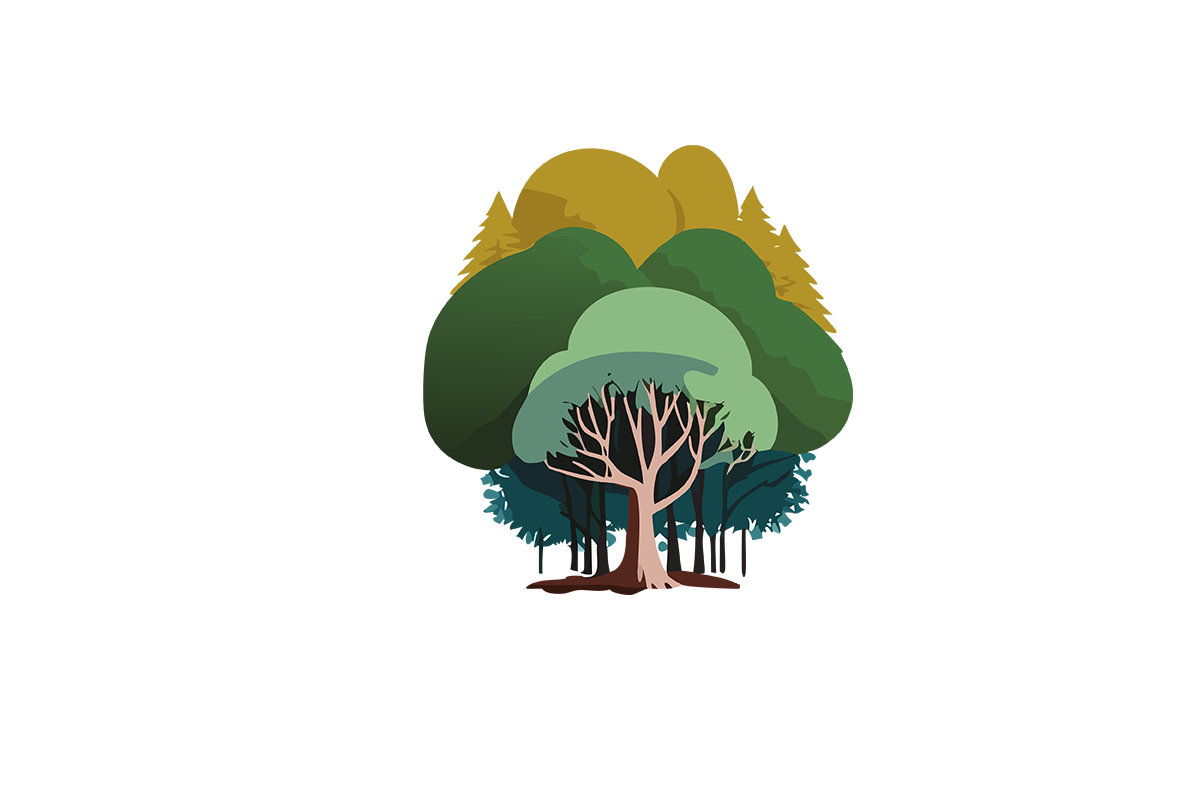
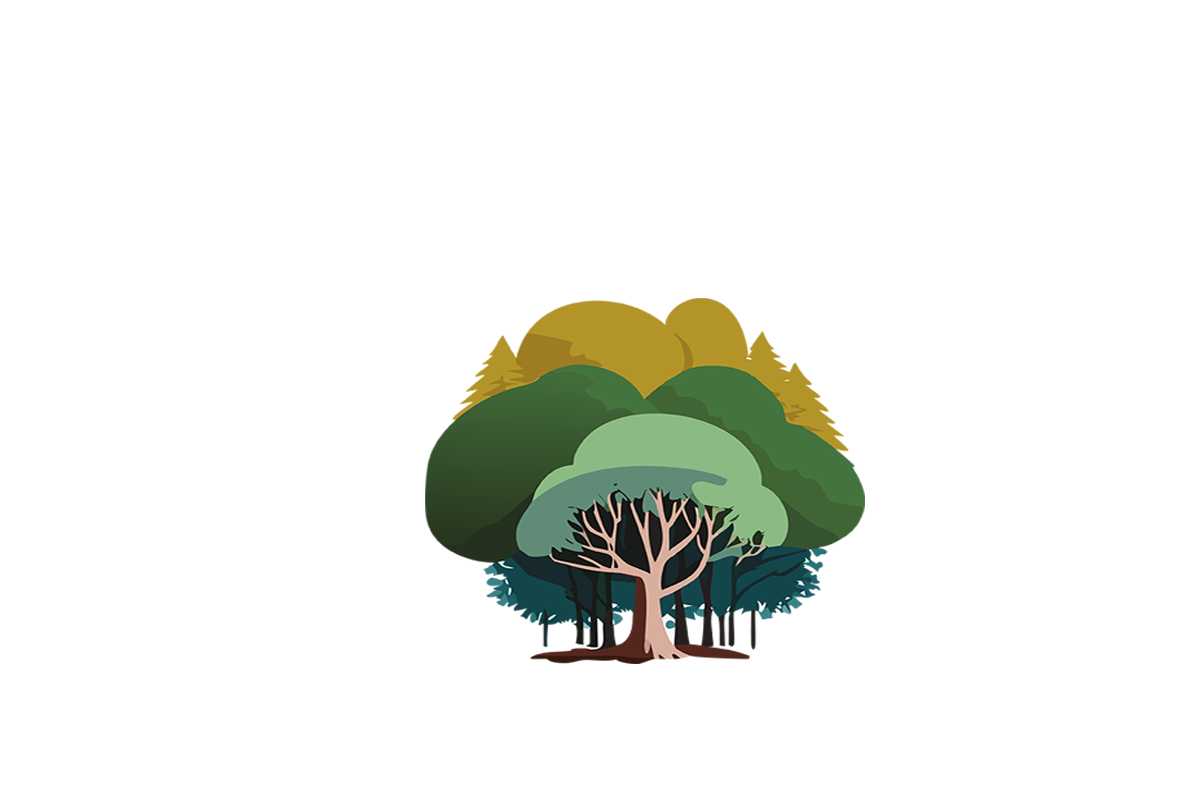
trees

Changed region(s): [[0.3392, 0.1562, 0.74, 0.8438]]

diff --git a/3.Teil/index.html b/3.Teil/index.html
@@ -21,7 +21,7 @@
     </mask>
     
     <image class="sky" xlink:href="new assets/skyWoods_mpje_21.01.25.jpg"  width="100%" />
-    <image class="mountBg" xlink:href="new assets/mountBg_mpje_24.01.25.jpg" width="100%"/>    
+    <image class="mountBg" xlink:href="new assets/mountBg_mpje_24.01.25.png" width="1200" height="800"/>    
     <image class="mountMg" xlink:href="https://assets.codepen.io/721952/mountMg.png" width="1200" height="800"/>    
     <image class="cloud2" xlink:href="https://assets.codepen.io/721952/cloud2.png" width="1200" height="800"/>    
     <image class="mountFg" xlink:href="https://assets.codepen.io/721952/mountFg.png" width="1200" height="800"/>
